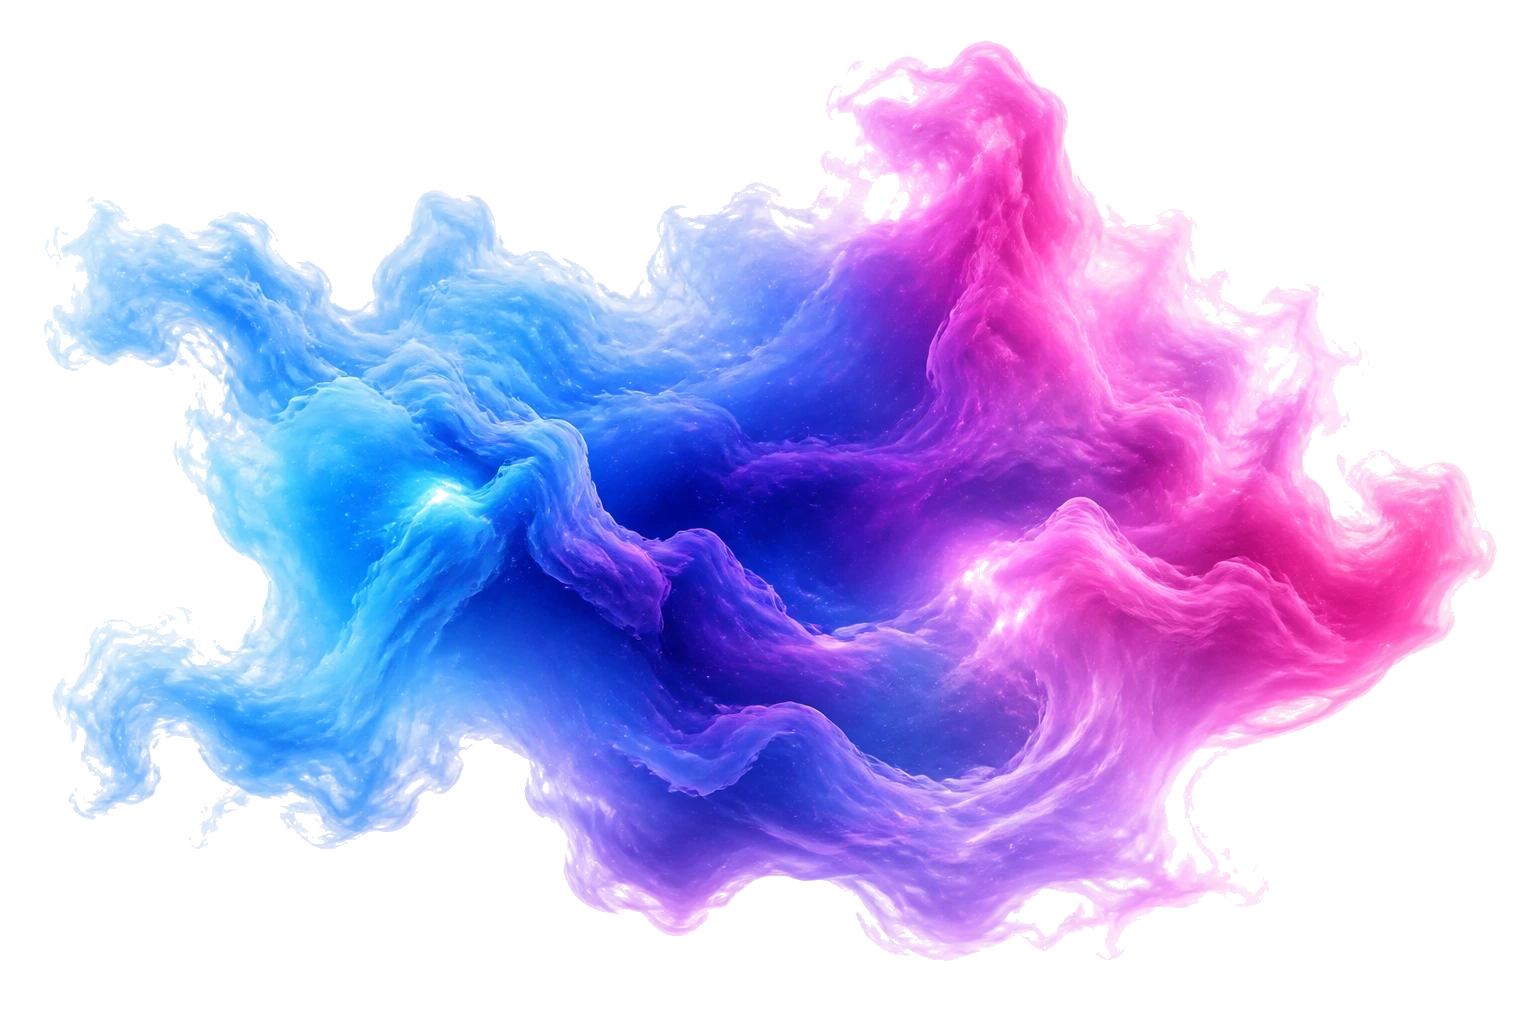
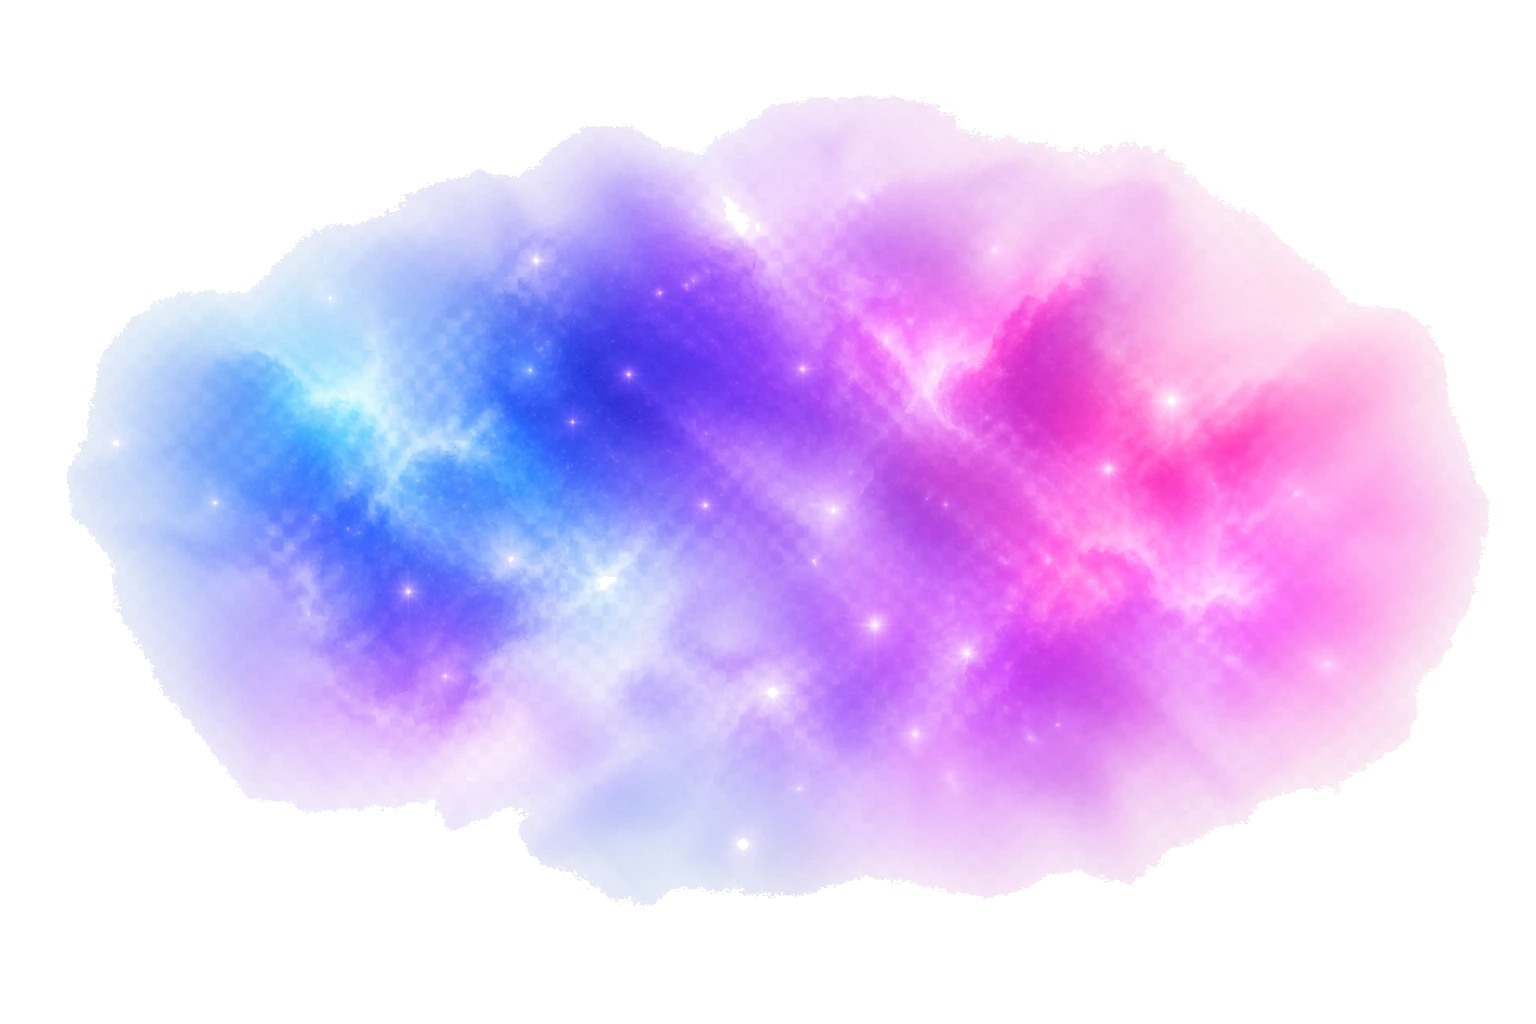
Replace Option 4 hero shapes that had hard mid cuts
Regenerate glow/wave/bulb assets with soft feathered edges instead of
straight cropped ends, retune overlap, and keep the bottom fade only
near Trusted By.

diff --git a/src/option4-theme.css b/src/option4-theme.css
@@ -622,26 +622,26 @@
 
 .theme-sic .hero-parallax {
   position: absolute;
-  inset: -28% -18% -8%;
+  inset: -28% -18% -18%;
   z-index: 0;
   pointer-events: none;
   overflow: hidden;
   background: transparent;
-  /* Soft dissolve into white before Trusted By — avoids a hard section cut */
+  /* Soft dissolve only near the very bottom — keep mid-hero fully visible */
   -webkit-mask-image: linear-gradient(
     180deg,
     #000 0%,
-    #000 58%,
-    rgba(0, 0, 0, 0.55) 78%,
-    rgba(0, 0, 0, 0.18) 90%,
+    #000 72%,
+    rgba(0, 0, 0, 0.7) 86%,
+    rgba(0, 0, 0, 0.25) 94%,
     transparent 100%
   );
   mask-image: linear-gradient(
     180deg,
     #000 0%,
-    #000 58%,
-    rgba(0, 0, 0, 0.55) 78%,
-    rgba(0, 0, 0, 0.18) 90%,
+    #000 72%,
+    rgba(0, 0, 0, 0.7) 86%,
+    rgba(0, 0, 0, 0.25) 94%,
     transparent 100%
   );
 }
@@ -666,33 +666,33 @@
 }
 
 .theme-sic .hero-parallax__shape--glow {
-  left: -4%;
-  top: -28%;
-  width: min(115vw, 1480px);
+  left: -2%;
+  top: -18%;
+  width: min(120vw, 1560px);
   height: auto;
   aspect-ratio: 16 / 9;
   z-index: 1;
-  opacity: 0.9;
+  opacity: 0.82;
 }
 
 .theme-sic .hero-parallax__shape--wave {
-  left: -22%;
-  top: 18%;
-  width: min(118vw, 1560px);
+  left: -16%;
+  top: 8%;
+  width: min(125vw, 1680px);
   height: auto;
   aspect-ratio: 16 / 9;
   z-index: 2;
-  opacity: 0.88;
+  opacity: 0.92;
 }
 
 .theme-sic .hero-parallax__shape--bulb {
-  right: -16%;
-  top: -8%;
-  width: min(78vw, 980px);
+  right: -10%;
+  top: -4%;
+  width: min(82vw, 1040px);
   height: auto;
   aspect-ratio: 3 / 4;
   z-index: 3;
-  opacity: 0.86;
+  opacity: 0.88;
 }
 
 .theme-sic .hero-parallax__veil {
@@ -702,10 +702,10 @@
   background:
     linear-gradient(
       180deg,
-      rgba(255, 255, 255, 0.06) 0%,
-      rgba(255, 255, 255, 0) 42%,
-      rgba(255, 255, 255, 0.45) 72%,
-      rgba(255, 255, 255, 0.88) 88%,
+      rgba(255, 255, 255, 0.04) 0%,
+      rgba(255, 255, 255, 0) 50%,
+      rgba(255, 255, 255, 0.35) 82%,
+      rgba(255, 255, 255, 0.85) 94%,
       #ffffff 100%
     );
 }
